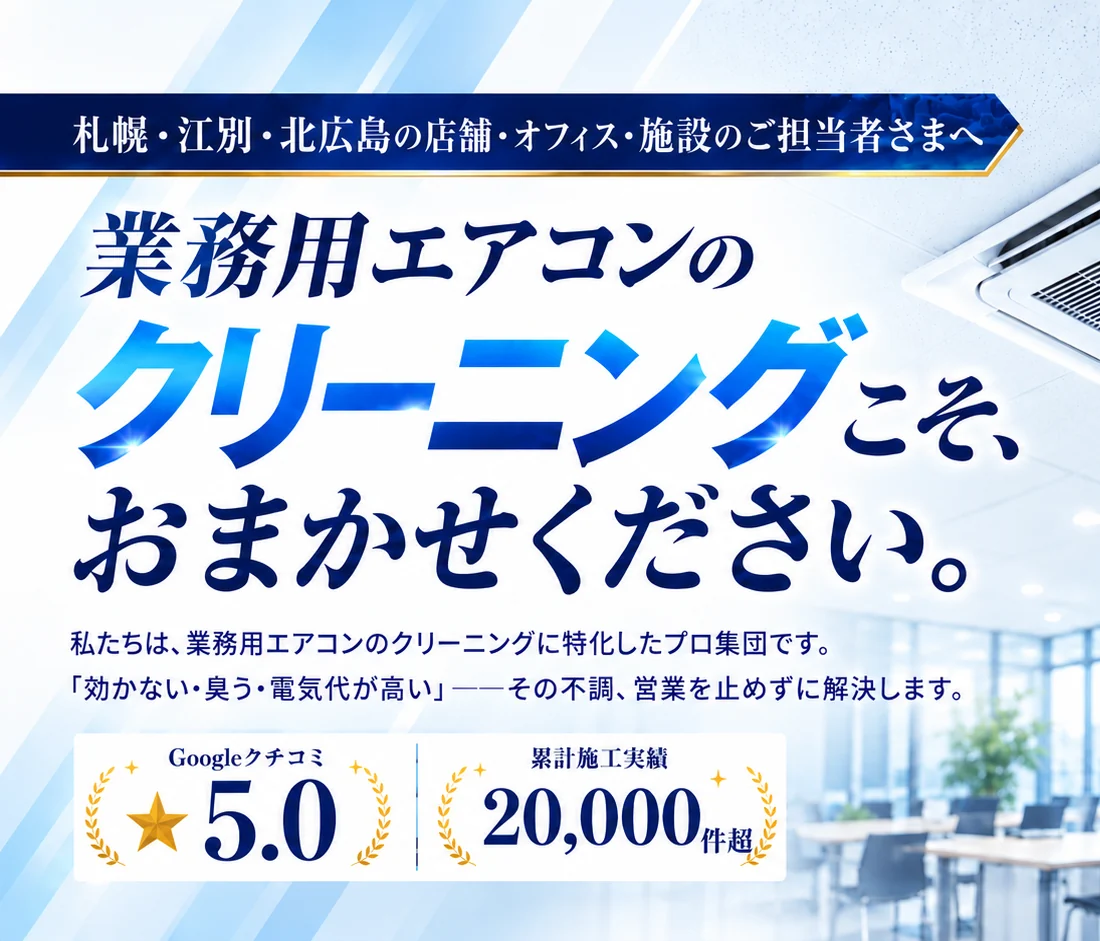
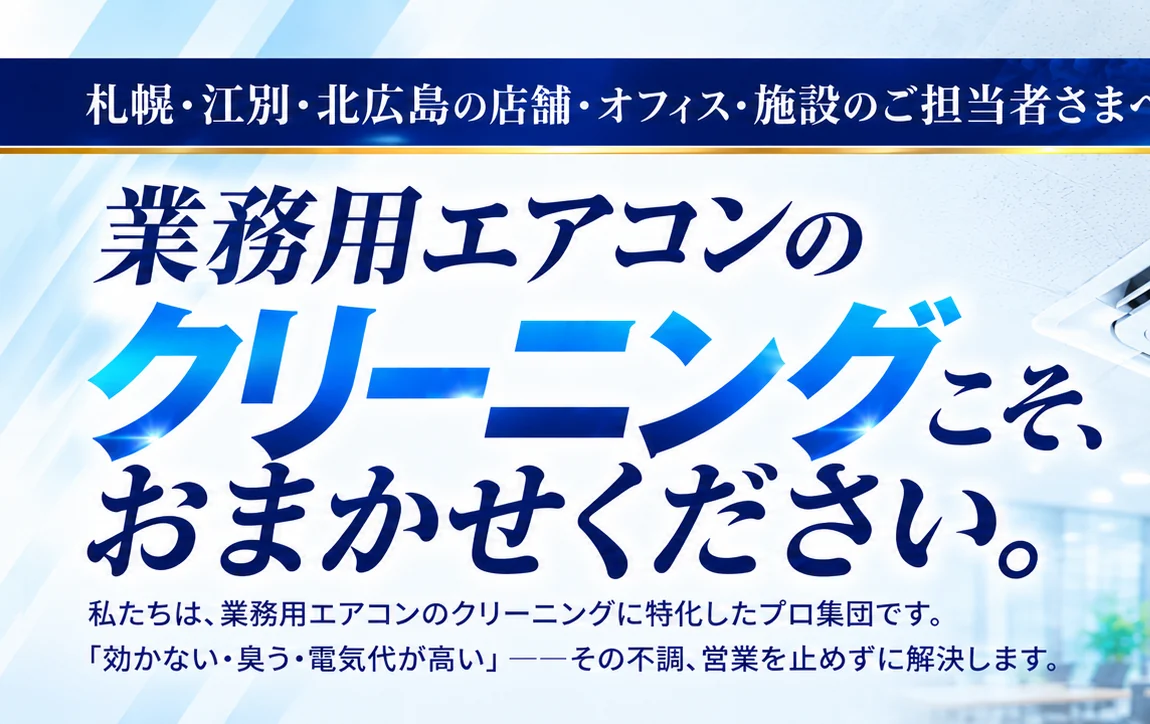
札幌LP: ヒーローを横長3:1画像（全幅）に変更

diff --git a/sapporo-business-aircon/index.html b/sapporo-business-aircon/index.html
@@ -743,10 +743,9 @@ gtag('config','G-MLDT3DP43Q');
 .fv-photo{position:relative;z-index:1;margin:0;border-radius:18px;overflow:hidden;box-shadow:0 22px 50px rgba(11,42,91,.18);aspect-ratio:3/2}
 .fv-photo img{display:block;width:100%;height:100%;object-fit:cover}
 /* ---- FV: オーナー提供のヒーロー画像（2026-10-07）。評価・実績はHTMLバッジで表示（画像下端の旧バッジは切り落とし済み） ---- */
-.fv-hero{display:block;line-height:0;margin:0 auto;width:min(100%,1280px,calc((100svh - 230px) * 1672 / 941));min-width:min(100%,720px)}
+.fv-hero{display:block;line-height:0;margin:0 auto;width:100%;max-width:2172px}
 .fv-hero img{display:block;width:100%;height:auto}
-.fv.fv--img{background:linear-gradient(180deg,#F3F7FC 0%,#E9F1FA 100%);padding:18px 0 22px}
-@media (min-width:641px){.fv-hero img{border-radius:0 0 14px 14px}}
+.fv.fv--img{background:#EAF2FB;padding:0}
 .fv-h1-sr{position:absolute;width:1px;height:1px;overflow:hidden;clip:rect(0 0 0 0);white-space:nowrap}
 @media (max-width:640px){
     }
@@ -780,7 +779,7 @@ gtag('config','G-MLDT3DP43Q');
 <section class="fv fv--img" aria-label="札幌の業務用エアコンクリーニング">
   <picture class="fv-hero">
     <source media="(max-width:640px)" srcset="assets/hero-sp.webp">
-    <img src="assets/hero-pc.webp" alt="札幌・江別・北広島の店舗・オフィス・施設のご担当者さまへ——業務用エアコンのクリーニングこそ、おまかせください。私たちは、業務用エアコンのクリーニングに特化したプロ集団です。「効かない・臭う・電気代が高い」その不調、営業を止めずに解決します。" width="1672" height="941" fetchpriority="high">
+    <img src="assets/hero-pc.webp" alt="札幌・江別・北広島の店舗・オフィス・施設のご担当者さまへ——業務用エアコンのクリーニングこそ、おまかせください。私たちは、業務用エアコンのクリーニングに特化したプロ集団です。「効かない・臭う・電気代が高い」その不調、営業を止めずに解決します。" width="2172" height="724" fetchpriority="high">
   </picture>
   <h1 class="fv-h1-sr">札幌の業務用エアコンクリーニング｜業務用エアコンのクリーニングこそ、おまかせください。</h1>
 </section>
